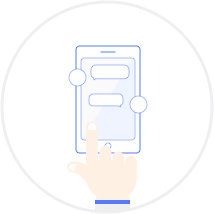
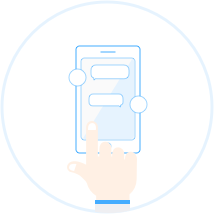
Modify design (#107)
* Modify design

Replaced image resource, changed color of something

* Reduce the width limit of expertise tag

* Adjust height limit in about

diff --git a/src/components/userProfile/UserOverview.js b/src/components/userProfile/UserOverview.js
@@ -74,7 +74,7 @@ class UserOverview extends Component {
     return (
         <View style={styles.sectionContainer} onLayout={ event => {
           const { height } = event.nativeEvent.layout;
-          const HEIGHT_OF_TWO_LINES = 54.5;
+          const HEIGHT_OF_TWO_LINES = 119;
           console.log(height);
           if (height > HEIGHT_OF_TWO_LINES) {
             this.setState({ needEllipsize: true });
@@ -97,7 +97,7 @@ class UserOverview extends Component {
 
   renderMyExpertise() {
     const CHARACTER_WIDTH = 10;
-    const LINE_PADDING = 10;
+    const LINE_PADDING = 40;
     const originArray = this.state.expertise;
     const newArray = [[]];
     let lineSize = 0;

diff --git a/src/components/Activity/NewRequestsRow.js b/src/components/Activity/NewRequestsRow.js
@@ -170,7 +170,7 @@ const styles = StyleSheet.create({
   acceptButton: {
     height: 26,
     width: 91,
-    borderColor: '#557bfc',
+    borderColor: '#44acff',
     borderWidth: 1,
     borderRadius: 2,
     justifyContent: 'center',
@@ -178,7 +178,7 @@ const styles = StyleSheet.create({
     marginRight: 15,
   },
   acceptButtonText: {
-    color: '#557bfc',
+    color: '#44acff',
     textAlign: 'center',
     fontSize: 12,
     fontWeight: 'bold',

diff --git a/src/components/MyPage.js b/src/components/MyPage.js
@@ -204,7 +204,7 @@ const styles = StyleSheet.create({
     fontWeight: '500',
   },
   linkText: {
-    color: '#557bfc',
+    color: '#44acff',
   },
   receiveRequest: {
     flexDirection: 'row',
